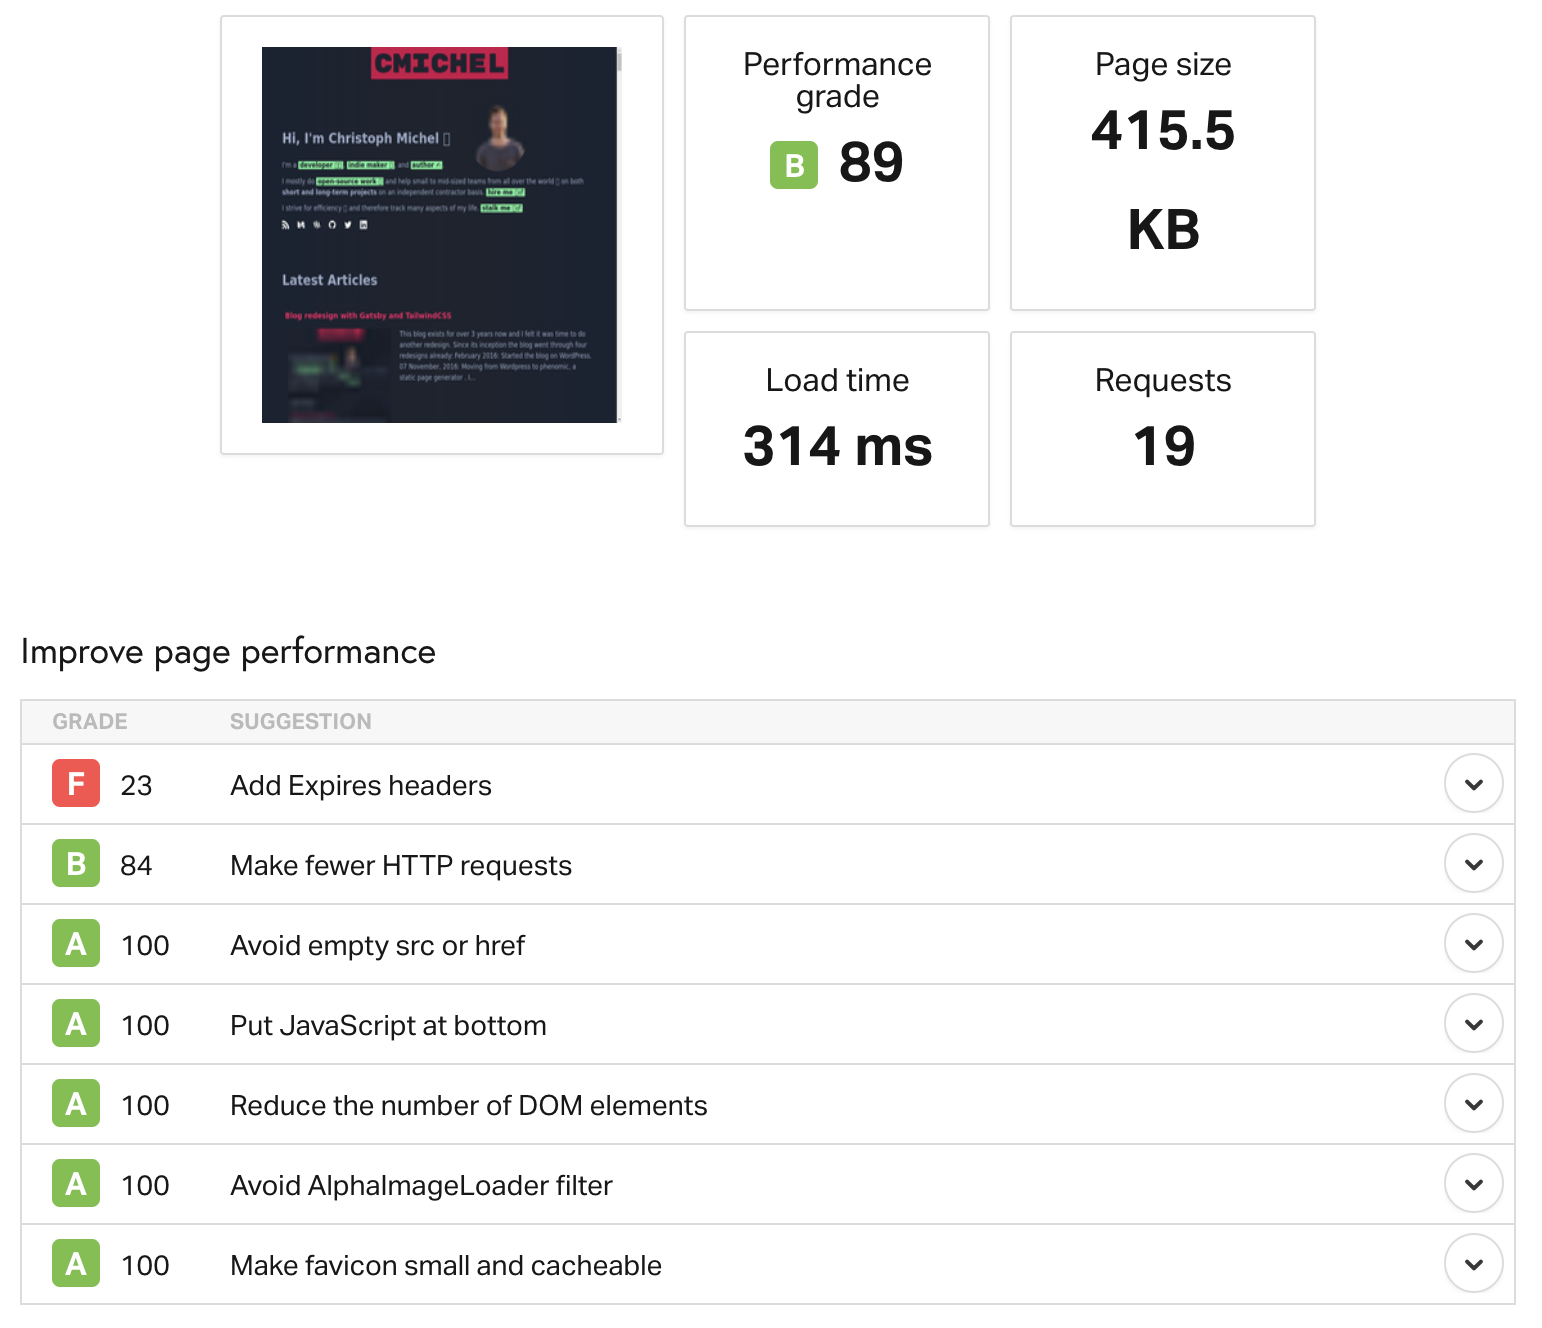
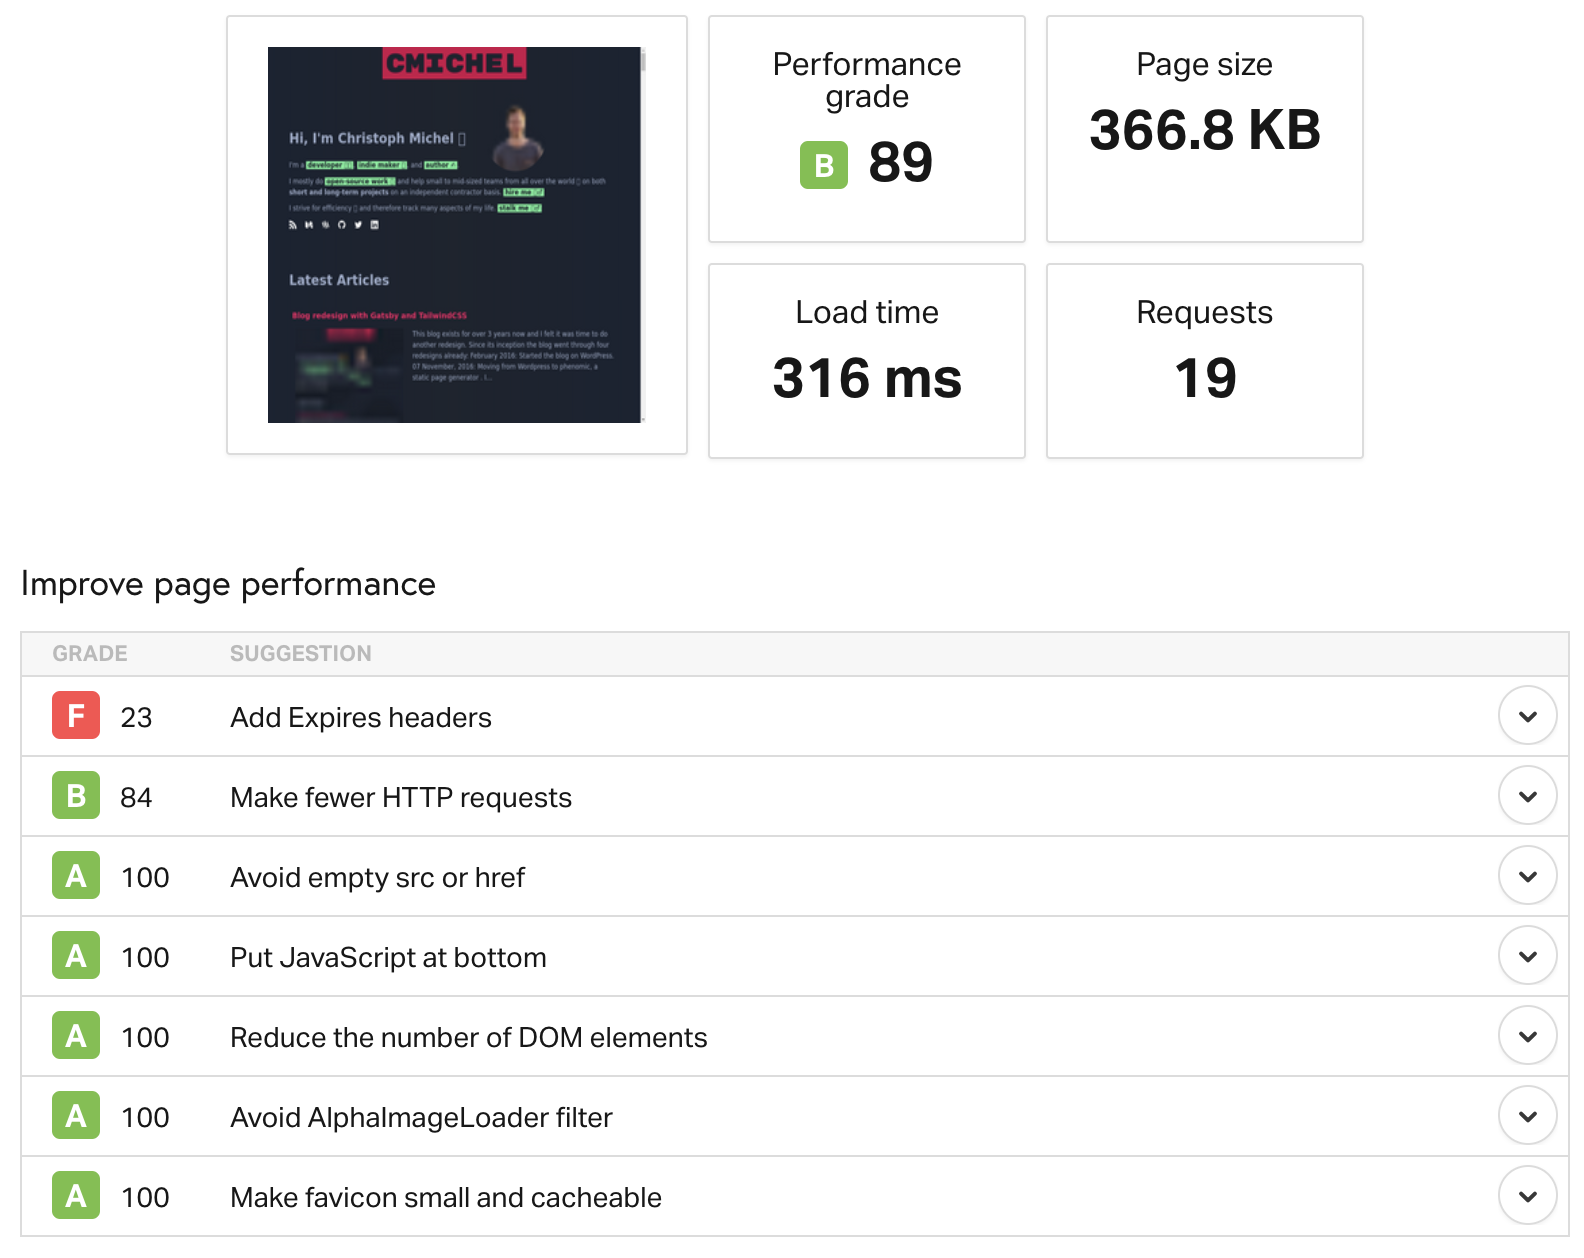
finish blog post

diff --git a/src/pages/blog-redesign-with-gatsby-and-tailwindcss/index.md b/src/pages/blog-redesign-with-gatsby-and-tailwindcss/index.md
@@ -75,10 +75,13 @@ _Performance of old website_
 ![Performance of new website](./performance_new.png)
 _Performance of new website_
 
-The new website is drastically smaller (from 2MB down to 450KB).
-This is mostly due to converting the featured images to thumbnails instead of showing the full-sized ones.
-The number of request roundtrips are also reduced.
-I'm shipping 245KB of JavaScript (vs 161KB) and 70KB
+The new website is drastically smaller (from 2MB down to 366KB).
+This is mostly due to converting the featured images to thumbnails (and webp) instead of showing the full-sized ones.
+The amount of request roundtrips is also reduced.
+I'm shipping 245KB of JavaScript (vs 161KB) and only **26KB** of HTML + inlined CSS (vs 21.6KB + 12.5KB).
+Using Tailwind as a CSS framework with purgecss I ended up with 11KB of CSS which is even less than my previous solution with no CSS framework and glamor.
 
-- show web.dev
-- show JS + css size
+All in all, I'm really happy with its performance & SEO, the design, and the development & authoring experience.
+This should keep from doing another redesign 💅 for at least another year before I get bored again. 😅
+
+If you'd like to see how a specific feature works in more detail, my [blog is open-source](https://github.com/MrToph/cmichelio).
